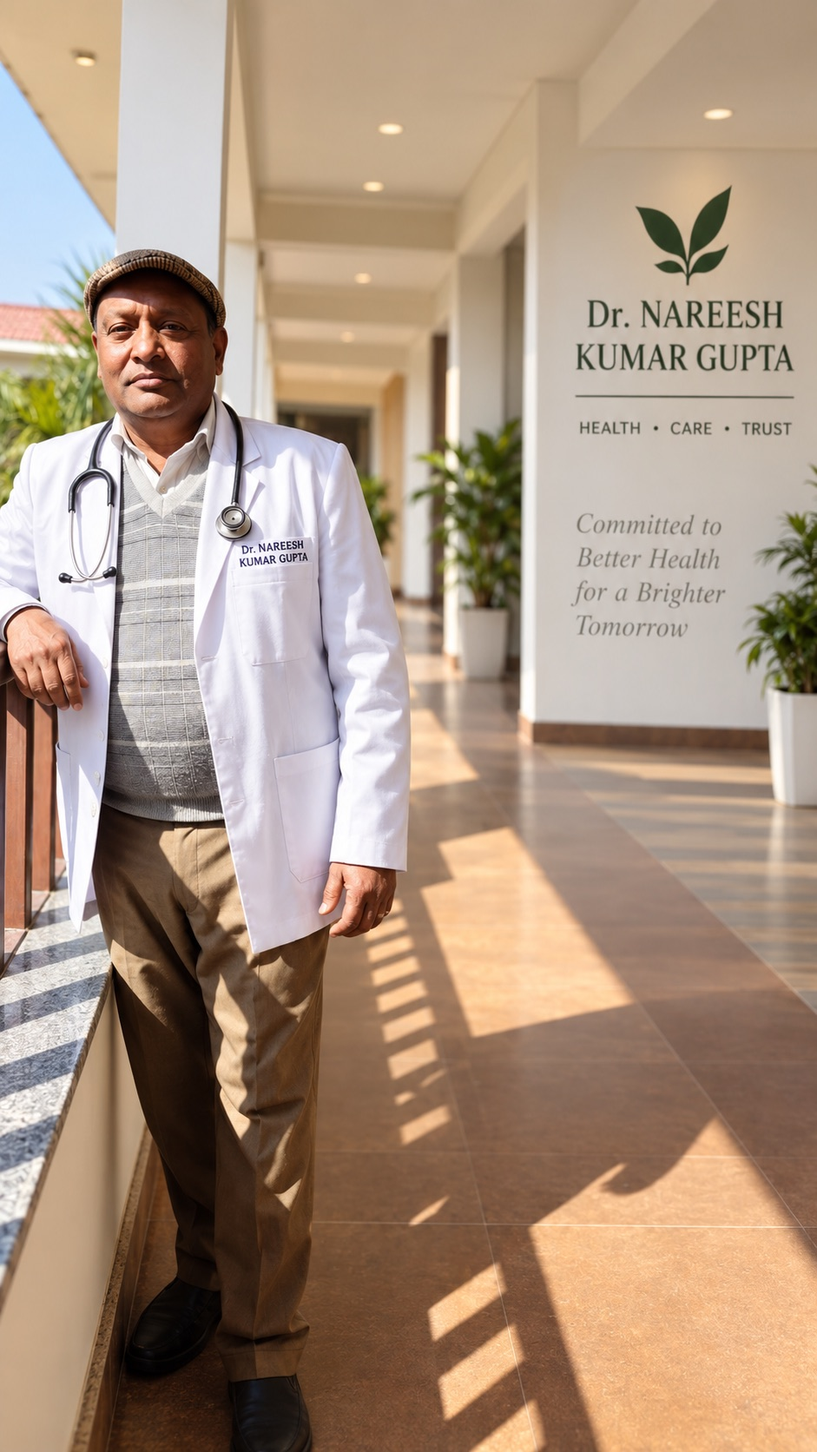
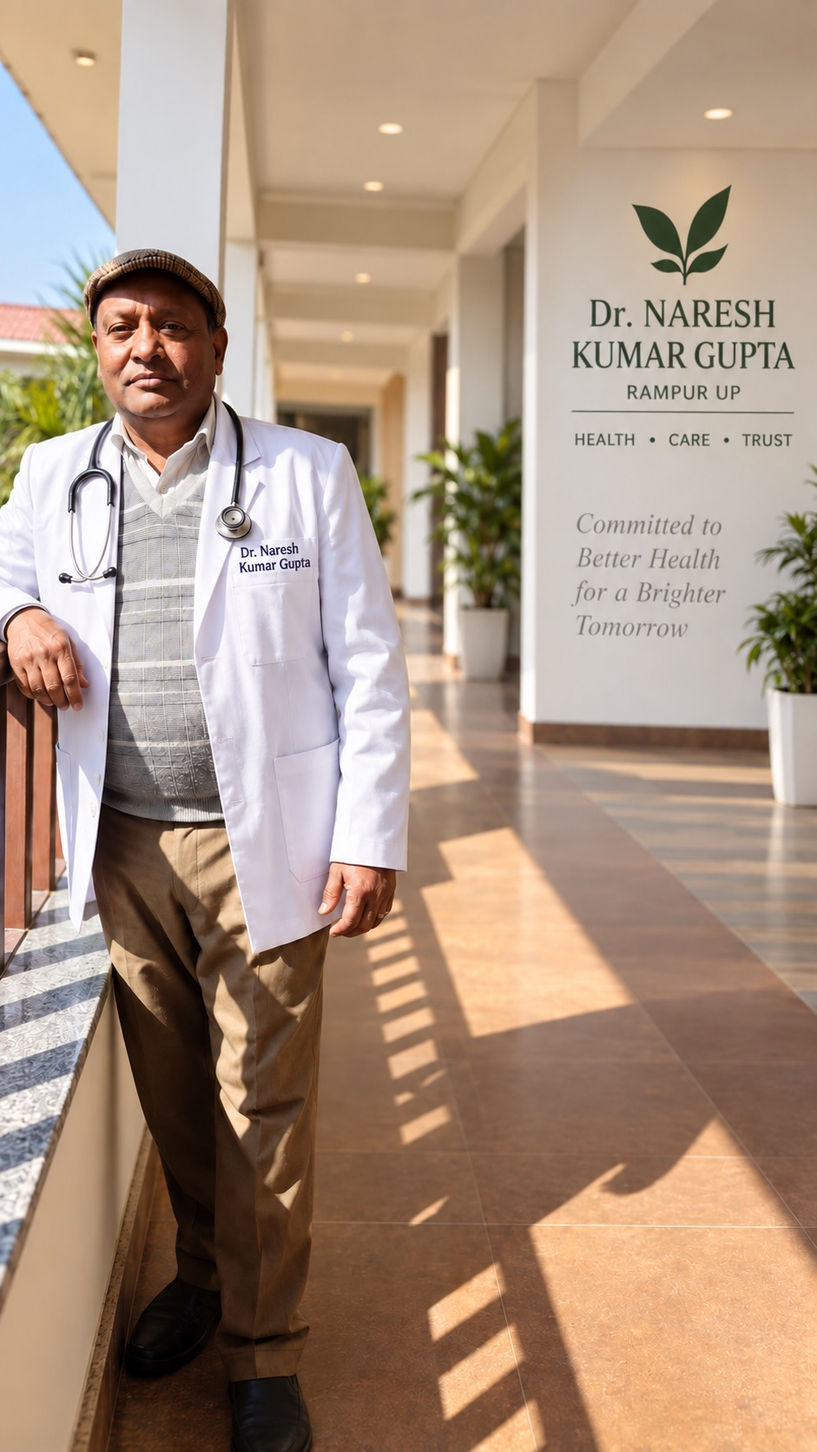
सभी डैश (—) चिह्न हटाकर उचित विराम-चिह्न लगाए, सही स्पेलिंग वाली फ़ोटो

diff --git a/app/homeopathy/page.js b/app/homeopathy/page.js
@@ -6,21 +6,21 @@ import organonTitle from '../../public/organon-title.jpg';
 import globulesPhoto from '../../public/homeo-flower.jpg';
 
 export const metadata = {
-  title: 'होम्योपैथी क्या है? — इतिहास, सिद्धांत और डॉ. सैमुअल हानेमान',
+  title: 'होम्योपैथी क्या है? इतिहास, सिद्धांत और डॉ. सैमुअल हानेमान',
   description:
-    'होम्योपैथी का संपूर्ण परिचय — डॉ. सैमुअल हानेमान का जीवन, उनके ग्रंथ (ऑर्गेनन ऑफ़ मेडिसिन, मटेरिया मेडिका प्यूरा, क्रॉनिक डिज़ीज़ेज़), होम्योपैथी के मूल सिद्धांत और भारत में इसकी मान्यता।',
+    'होम्योपैथी का संपूर्ण परिचय: डॉ. सैमुअल हानेमान का जीवन, उनके ग्रंथ (ऑर्गेनन ऑफ़ मेडिसिन, मटेरिया मेडिका प्यूरा, क्रॉनिक डिज़ीज़ेज़), होम्योपैथी के मूल सिद्धांत और भारत में इसकी मान्यता।',
 };
 
 const principles = [
   {
     icon: '⚖',
     title: 'समरूपता का सिद्धांत',
-    desc: '"Similia Similibus Curentur" — अर्थात जो पदार्थ स्वस्थ व्यक्ति में किसी रोग जैसे लक्षण उत्पन्न करता है, वही पदार्थ अत्यंत सूक्ष्म मात्रा में उन लक्षणों वाले रोगी को ठीक कर सकता है। यही होम्योपैथी की आधारशिला है।',
+    desc: '"Similia Similibus Curentur", अर्थात जो पदार्थ स्वस्थ व्यक्ति में किसी रोग जैसे लक्षण उत्पन्न करता है, वही पदार्थ अत्यंत सूक्ष्म मात्रा में उन लक्षणों वाले रोगी को ठीक कर सकता है। यही होम्योपैथी की आधारशिला है।',
   },
   {
     icon: '💧',
     title: 'न्यूनतम मात्रा',
-    desc: 'दवा उतनी ही दी जाती है जितनी रोग को ठीक करने के लिए आवश्यक हो — इससे दवा का कोई हानिकारक प्रभाव शरीर पर नहीं पड़ता।',
+    desc: 'दवा उतनी ही दी जाती है जितनी रोग को ठीक करने के लिए आवश्यक हो। इससे दवा का कोई हानिकारक प्रभाव शरीर पर नहीं पड़ता।',
   },
   {
     icon: '🔄',
@@ -30,7 +30,7 @@ const principles = [
   {
     icon: '🧍',
     title: 'संपूर्ण व्यक्ति की चिकित्सा',
-    desc: 'होम्योपैथी रोग का नहीं, रोगी का उपचार करती है — शरीर, मन और स्वभाव को एक साथ देखकर दवा चुनी जाती है। इसीलिए एक ही रोग में दो रोगियों को अलग-अलग दवा दी जा सकती है।',
+    desc: 'होम्योपैथी रोग का नहीं, रोगी का उपचार करती है। शरीर, मन और स्वभाव को एक साथ देखकर दवा चुनी जाती है। इसीलिए एक ही रोग में दो रोगियों को अलग-अलग दवा दी जा सकती है।',
   },
 ];
 
@@ -39,7 +39,7 @@ const books = [
     year: '1810',
     title: 'ऑर्गेनन ऑफ़ मेडिसिन',
     original: 'Organon der Heilkunst',
-    desc: 'होम्योपैथी का मूल ग्रंथ, जिसमें डॉ. हानेमान ने चिकित्सा के संपूर्ण सिद्धांत सूत्रबद्ध किए। उनके जीवनकाल और उसके बाद कुल छह संस्करण प्रकाशित हुए — आज भी विश्व भर के होम्योपैथिक कॉलेजों में यही ग्रंथ पढ़ाया जाता है।',
+    desc: 'होम्योपैथी का मूल ग्रंथ, जिसमें डॉ. हानेमान ने चिकित्सा के संपूर्ण सिद्धांत सूत्रबद्ध किए। उनके जीवनकाल और उसके बाद कुल छह संस्करण प्रकाशित हुए। आज भी विश्व भर के होम्योपैथिक कॉलेजों में यही ग्रंथ पढ़ाया जाता है।',
   },
   {
     year: '1811–1821',
@@ -51,13 +51,13 @@ const books = [
     year: '1828',
     title: 'द क्रॉनिक डिज़ीज़ेज़',
     original: 'Die chronischen Krankheiten',
-    desc: 'पुराने (जीर्ण) रोगों की गहराई पर लिखा ग्रंथ — क्यों कुछ रोग बार-बार लौटते हैं और उनकी जड़ (मायाज़्म) तक पहुँचकर स्थायी उपचार कैसे किया जाए, इसका सिद्धांत यहीं दिया गया।',
+    desc: 'पुराने (जीर्ण) रोगों की गहराई पर लिखा ग्रंथ। क्यों कुछ रोग बार-बार लौटते हैं और उनकी जड़ (मायाज़्म) तक पहुँचकर स्थायी उपचार कैसे किया जाए, इसका सिद्धांत यहीं दिया गया।',
   },
 ];
 
 const indiaFacts = [
-  'भारत में होम्योपैथी का आगमन 19वीं शताब्दी के आरंभ में हुआ — डॉ. जॉन मार्टिन होनिगबर्गर ने महाराजा रणजीत सिंह का उपचार होम्योपैथी से किया था।',
-  'आज भारत विश्व में होम्योपैथी का सबसे बड़ा केंद्र है — सैकड़ों होम्योपैथिक मेडिकल कॉलेज और लाखों पंजीकृत चिकित्सक।',
+  'भारत में होम्योपैथी का आगमन 19वीं शताब्दी के आरंभ में हुआ। डॉ. जॉन मार्टिन होनिगबर्गर ने महाराजा रणजीत सिंह का उपचार होम्योपैथी से किया था।',
+  'आज भारत विश्व में होम्योपैथी का सबसे बड़ा केंद्र है, जहाँ सैकड़ों होम्योपैथिक मेडिकल कॉलेज और लाखों पंजीकृत चिकित्सक हैं।',
   'भारत सरकार के आयुष मंत्रालय के अंतर्गत होम्योपैथी एक मान्यता प्राप्त चिकित्सा पद्धति है।',
   'राष्ट्रीय होम्योपैथी आयोग (NCH) शिक्षा और पंजीकरण का नियमन करता है, तथा केंद्रीय होम्योपैथी अनुसंधान परिषद (CCRH) शोध कार्य करती है।',
   'डॉ. हानेमान के जन्मदिवस 10 अप्रैल को प्रतिवर्ष विश्व होम्योपैथी दिवस मनाया जाता है।',
@@ -70,7 +70,7 @@ const myths = [
   },
   {
     myth: 'सभी सफ़ेद मीठी गोलियाँ एक जैसी होती हैं।',
-    fact: 'मीठी गोलियाँ केवल दवा पहुँचाने का माध्यम हैं — असली दवा उन पर डाली गई औषधि होती है, जो हज़ारों अलग-अलग स्रोतों से बनती है और हर रोगी के लिए अलग चुनी जाती है।',
+    fact: 'मीठी गोलियाँ केवल दवा पहुँचाने का माध्यम हैं। असली दवा उन पर डाली गई औषधि होती है, जो हज़ारों अलग-अलग स्रोतों से बनती है और हर रोगी के लिए अलग चुनी जाती है।',
   },
   {
     myth: 'होम्योपैथी में बहुत कठिन परहेज़ रखना पड़ता है।',
@@ -78,7 +78,7 @@ const myths = [
   },
   {
     myth: 'होम्योपैथिक दवा पहले रोग को बढ़ा देती है।',
-    fact: 'कुछ रोगियों में आरंभ में लक्षण थोड़े उभर सकते हैं, जिसे चिकित्सक की देखरेख में शुभ संकेत माना जाता है — यह अल्पकालिक होता है और हर रोगी में नहीं होता।',
+    fact: 'कुछ रोगियों में आरंभ में लक्षण थोड़े उभर सकते हैं, जिसे चिकित्सक की देखरेख में शुभ संकेत माना जाता है। यह अल्पकालिक होता है और हर रोगी में नहीं होता।',
   },
 ];
 
@@ -91,10 +91,10 @@ export default function HomeopathyPage() {
             <Link href="/">मुखपृष्ठ</Link> <span aria-hidden="true">›</span>{' '}
             होम्योपैथी
           </p>
-          <h1>होम्योपैथी — एक संपूर्ण परिचय</h1>
+          <h1>होम्योपैथी: एक संपूर्ण परिचय</h1>
           <p className="lead">
             दो सौ वर्षों से अधिक पुरानी, विश्व की प्रमुख सौम्य चिकित्सा
-            पद्धतियों में से एक — उसका इतिहास, सिद्धांत और भारत में स्थान।
+            पद्धतियों में से एक। उसका इतिहास, सिद्धांत और भारत में स्थान।
           </p>
         </div>
       </section>
@@ -113,7 +113,7 @@ export default function HomeopathyPage() {
           </p>
           <p>
             "होम्योपैथी" शब्द ग्रीक भाषा के <em>homoios</em> (समान) और{' '}
-            <em>pathos</em> (पीड़ा) से बना है — अर्थात "समान से समान की
+            <em>pathos</em> (पीड़ा) से बना है, अर्थात "समान से समान की
             चिकित्सा"।
           </p>
         </div>
@@ -128,14 +128,14 @@ export default function HomeopathyPage() {
               sizes="(min-width: 720px) 420px, 88vw"
             />
             <figcaption>
-              डॉ. सैमुअल हानेमान (1755–1843) — 1838 में पेरिस में बना तैलचित्र
+              डॉ. सैमुअल हानेमान (1755-1843), 1838 में पेरिस में बना तैलचित्र
             </figcaption>
           </figure>
           <div className="split-text">
-            <h2>संस्थापक — डॉ. सैमुअल हानेमान</h2>
+            <h2>संस्थापक: डॉ. सैमुअल हानेमान</h2>
             <p>
               डॉ. क्रिश्चियन फ्रेडरिक सैमुअल हानेमान का जन्म 10 अप्रैल 1755 को
-              जर्मनी के माइसन नगर में हुआ। वे असाधारण प्रतिभा के धनी थे — कई
+              जर्मनी के माइसन नगर में हुआ। वे असाधारण प्रतिभा के धनी थे: कई
               भाषाओं के ज्ञाता, रसायनशास्त्री और चिकित्सक। सन् 1779 में उन्होंने
               चिकित्सा की उपाधि प्राप्त की, परंतु उस युग की कठोर चिकित्सा
               विधियों (रक्त निकालना, विषैली औषधियाँ) से असंतुष्ट होकर उन्होंने
@@ -144,7 +144,7 @@ export default function HomeopathyPage() {
             <p>
               सन् 1790 में एक पुस्तक का अनुवाद करते समय उन्होंने सिनकोना
               (कुनैन) की छाल का स्वयं पर प्रयोग किया और पाया कि स्वस्थ शरीर में
-              वह मलेरिया जैसे लक्षण उत्पन्न करती है — यहीं से "समान से समान की
+              वह मलेरिया जैसे लक्षण उत्पन्न करती है। यहीं से "समान से समान की
               चिकित्सा" के सिद्धांत का जन्म हुआ। वर्षों के परीक्षणों के बाद सन्
               1810 में उन्होंने अपना प्रसिद्ध ग्रंथ <em>ऑर्गेनन</em> प्रकाशित
               किया और होम्योपैथी को एक व्यवस्थित चिकित्सा पद्धति का रूप दिया।
@@ -249,7 +249,7 @@ export default function HomeopathyPage() {
           <div>
             <h2>क्या होम्योपैथी आपके रोग में सहायक हो सकती है?</h2>
             <p>
-              {site.experienceYears} वर्षों के अनुभवी चिकित्सक से परामर्श लें —
+              {site.experienceYears} वर्षों के अनुभवी चिकित्सक से परामर्श लें।
               {' '}{site.address}
             </p>
           </div>

diff --git a/app/page.js b/app/page.js
@@ -10,7 +10,7 @@ const specialties = [
   {
     icon: '🦶',
     title: 'एड़ी एवं तलवे का दर्द',
-    desc: 'तलवे में सुई जैसी चुभन और तेज़ दर्द (प्लांटर फ़ेशिआइटिस / कैल्केनियल स्पर) — जिसमें सुबह ज़मीन पर पैर रखते ही असहनीय पीड़ा होती है, उसका सफल होम्योपैथिक उपचार।',
+    desc: 'तलवे में सुई जैसी चुभन और तेज़ दर्द (प्लांटर फ़ेशिआइटिस / कैल्केनियल स्पर), जिसमें सुबह ज़मीन पर पैर रखते ही असहनीय पीड़ा होती है, उसका सफल होम्योपैथिक उपचार।',
   },
   {
     icon: '🌿',
@@ -20,7 +20,7 @@ const specialties = [
   {
     icon: '👣',
     title: 'गोखरू / कॉर्न',
-    desc: 'पैर के तलवे में बनने वाली कठोर, फफोले जैसी गाँठ, जिससे चलने में दर्द होता है — उसका जड़ से होम्योपैथिक समाधान।',
+    desc: 'पैर के तलवे में बनने वाली कठोर, फफोले जैसी गाँठ, जिससे चलने में दर्द होता है, उसका जड़ से होम्योपैथिक समाधान।',
   },
   {
     icon: '🌡',
@@ -35,12 +35,12 @@ const specialties = [
   {
     icon: '🧠',
     title: 'मिर्गी के दौरे (Seizures)',
-    desc: 'मिर्गी के दौरों से पीड़ित रोगियों की दीर्घकालिक देखभाल का अनुभव — नियमित परामर्श एवं सतत होम्योपैथिक चिकित्सा के साथ।',
+    desc: 'मिर्गी के दौरों से पीड़ित रोगियों की दीर्घकालिक देखभाल का अनुभव, नियमित परामर्श एवं सतत होम्योपैथिक चिकित्सा के साथ।',
   },
   {
     icon: '🦴',
     title: 'सर्वाइकल (गर्दन का दर्द)',
-    desc: 'सर्वाइकल स्पॉन्डिलाइटिस — गर्दन की जकड़न, दर्द तथा हाथों में झनझनाहट का सौम्य होम्योपैथिक उपचार।',
+    desc: 'सर्वाइकल स्पॉन्डिलाइटिस से होने वाली गर्दन की जकड़न, दर्द तथा हाथों में झनझनाहट का सौम्य होम्योपैथिक उपचार।',
   },
   {
     icon: '💧',
@@ -54,13 +54,13 @@ const specialties = [
   },
   {
     icon: '🌼',
-    title: 'चर्म रोग — दाग, छाजन, खुजली',
+    title: 'चर्म रोग (दाग, छाजन, खुजली)',
     desc: 'त्वचा के दाग-धब्बे, छाजन (एक्ज़िमा), खाज-खुजली और बार-बार उभरने वाली त्वचा की शिकायतों का जड़ से होम्योपैथिक उपचार।',
   },
   {
     icon: '🤧',
     title: 'एलर्जी (Allergy)',
-    desc: 'धूल, धूप, मौसम या खान-पान से होने वाली एलर्जी — त्वचा पर चकत्ते, खुजली, बार-बार छींकें व ज़ुकाम का सौम्य उपचार।',
+    desc: 'धूल, धूप, मौसम या खान-पान से होने वाली एलर्जी में त्वचा पर चकत्ते, खुजली, बार-बार छींकें व ज़ुकाम का सौम्य उपचार।',
   },
   {
     icon: '🩺',
@@ -70,7 +70,7 @@ const specialties = [
   {
     icon: '🤝',
     title: 'परिवार की संपूर्ण चिकित्सा',
-    desc: 'बच्चों से लेकर बुज़ुर्गों तक — हर आयु के रोगियों के लिए सुरक्षित और सौम्य होम्योपैथिक परामर्श।',
+    desc: 'बच्चों से लेकर बुज़ुर्गों तक, हर आयु के रोगियों के लिए सुरक्षित और सौम्य होम्योपैथिक परामर्श।',
   },
 ];
 
@@ -78,7 +78,7 @@ const processSteps = [
   {
     num: '१',
     title: 'विस्तृत बातचीत',
-    desc: 'रोग के लक्षण, पुरानी बीमारियाँ, खान-पान और दिनचर्या — सब कुछ आराम से, विस्तार में सुना और समझा जाता है।',
+    desc: 'रोग के लक्षण, पुरानी बीमारियाँ, खान-पान और दिनचर्या, सब कुछ आराम से, विस्तार में सुना और समझा जाता है।',
   },
   {
     num: '२',
@@ -88,7 +88,7 @@ const processSteps = [
   {
     num: '३',
     title: 'व्यक्तिगत दवा का चयन',
-    desc: 'हर रोगी की प्रकृति के अनुसार दवा और उसकी शक्ति (पोटेंसी) का चुनाव किया जाता है — एक ही रोग में भी अलग-अलग रोगियों को अलग दवा।',
+    desc: 'हर रोगी की प्रकृति के अनुसार दवा और उसकी शक्ति (पोटेंसी) का चुनाव किया जाता है। एक ही रोग में भी अलग-अलग रोगियों को अलग दवा दी जा सकती है।',
   },
   {
     num: '४',
@@ -100,7 +100,7 @@ const processSteps = [
 const whyPoints = [
   {
     title: 'सौम्य एवं सुरक्षित',
-    desc: 'होम्योपैथिक दवाएँ मीठी गोलियों के रूप में दी जाती हैं — बच्चे और बुज़ुर्ग भी सहजता से ले सकते हैं।',
+    desc: 'होम्योपैथिक दवाएँ मीठी गोलियों के रूप में दी जाती हैं, इसलिए बच्चे और बुज़ुर्ग भी इन्हें सहजता से ले सकते हैं।',
   },
   {
     title: 'जड़ से उपचार का प्रयास',
@@ -115,13 +115,13 @@ const whyPoints = [
 const testimonials = [
   {
     name: 'श्री रमीस कुमार सिंह',
-    meta: 'सर्वाइकल (गर्दन का दर्द) — 10 वर्ष पुरानी समस्या',
-    text: 'पिछले दस वर्षों से गर्दन के दर्द से परेशान था — उठने-बैठने तक में कष्ट होता था। डॉक्टर साहब की दवा नियमित लेने से धीरे-धीरे पूरा आराम मिल गया। अब बिना किसी तकलीफ़ के अपना काम कर पाता हूँ।',
+    meta: 'सर्वाइकल (गर्दन का दर्द), 10 वर्ष पुरानी समस्या',
+    text: 'पिछले दस वर्षों से गर्दन के दर्द से परेशान था। उठने-बैठने तक में कष्ट होता था। डॉक्टर साहब की दवा नियमित लेने से धीरे-धीरे पूरा आराम मिल गया। अब बिना किसी तकलीफ़ के अपना काम कर पाता हूँ।',
   },
   {
     name: 'श्री अमित कुमार सिंह',
     place: 'रामपुर, उत्तर प्रदेश',
-    meta: 'चर्म रोग — 2 वर्ष पुरानी समस्या',
+    meta: 'चर्म रोग, 2 वर्ष पुरानी समस्या',
     text: 'दो साल से त्वचा के रोग से परेशान था। अंग्रेज़ी दवाएँ खाते-खाते थक गया, पर कोई लाभ नहीं हुआ। डॉक्टर साहब की होम्योपैथिक दवा से कुछ ही महीनों में त्वचा बिल्कुल साफ़ हो गई। मैं उनका हृदय से आभारी हूँ।',
   },
 ];
@@ -145,7 +145,7 @@ const faqs = [
   },
   {
     q: 'पहली मुलाक़ात में क्या होगा?',
-    a: 'पहली मुलाक़ात में डॉक्टर साहब आपकी पूरी बात — लक्षण, इतिहास, खान-पान और दिनचर्या — विस्तार से सुनते हैं, इसलिए थोड़ा समय लेकर आएँ। आपकी बताई हर बात पूरी तरह गोपनीय रखी जाती है।',
+    a: 'पहली मुलाक़ात में डॉक्टर साहब आपकी पूरी बात (लक्षण, इतिहास, खान-पान और दिनचर्या) विस्तार से सुनते हैं, इसलिए थोड़ा समय लेकर आएँ। आपकी बताई हर बात पूरी तरह गोपनीय रखी जाती है।',
   },
   {
     q: 'दूर रहने वाले रोगी क्या करें?',
@@ -164,7 +164,7 @@ export default function Home() {
                 पिछले {site.experienceYears} वर्षों से आपकी सेवा में
               </p>
               <h1>
-                अनुभव, विश्वास और सौम्य चिकित्सा —
+                अनुभव, विश्वास और सौम्य चिकित्सा
                 <br />
                 <span className="accent">{site.doctorName}</span>
               </h1>
@@ -230,7 +230,7 @@ export default function Home() {
               </p>
               <p>
                 उनकी पहचान किसी विज्ञापन से नहीं, बल्कि स्वस्थ हुए रोगियों के
-                विश्वास से बनी है — आज भी उनके पास आने वाले अधिकांश रोगी पुराने
+                विश्वास से बनी है। आज भी उनके पास आने वाले अधिकांश रोगी पुराने
                 रोगियों की सलाह पर ही आते हैं। यही उनकी चिकित्सा की सबसे बड़ी
                 पहचान है।
               </p>
@@ -259,7 +259,7 @@ export default function Home() {
               </p>
               <ul className="checklist">
                 <li>प्राकृतिक स्रोतों से बनी अत्यंत सौम्य दवाएँ</li>
-                <li>मीठी गोलियों के रूप में — बच्चे भी आसानी से लेते हैं</li>
+                <li>मीठी गोलियाँ, जिन्हें बच्चे भी आसानी से लेते हैं</li>
                 <li>भारत सरकार के आयुष मंत्रालय द्वारा मान्यता प्राप्त पद्धति</li>
                 <li>पुराने एवं बार-बार लौटने वाले रोगों में विशेष उपयोगी</li>
               </ul>
@@ -304,7 +304,7 @@ export default function Home() {
             <div>
               <h2>इनमें से कोई समस्या है?</h2>
               <p>
-                बिना झिझक संपर्क करें — {site.experienceYears} वर्षों का अनुभव
+                बिना झिझक संपर्क करें, {site.experienceYears} वर्षों का अनुभव
                 आपकी सेवा में है।
               </p>
             </div>
@@ -326,7 +326,7 @@ export default function Home() {
 
         <section className="section section-tint" id="process">
           <div className="container">
-            <h2>चिकित्सा-पद्धति — परामर्श कैसे होता है</h2>
+            <h2>चिकित्सा-पद्धति: परामर्श कैसे होता है</h2>
             <div className="process-grid">
               <ol className="process-steps">
                 {processSteps.map((p) => (
@@ -348,7 +348,7 @@ export default function Home() {
                   sizes="(min-width: 900px) 380px, 92vw"
                 />
                 <figcaption>
-                  होम्योपैथिक दवाएँ — मीठी गोलियों के रूप में
+                  होम्योपैथिक दवाएँ, मीठी गोलियों के रूप में
                 </figcaption>
               </figure>
             </div>
@@ -373,7 +373,7 @@ export default function Home() {
           <div className="container">
             <h2>रोगियों के अनुभव</h2>
             <p className="section-sub">
-              हमारी सबसे बड़ी पूँजी — स्वस्थ हुए रोगियों का विश्वास:
+              हमारी सबसे बड़ी पूँजी: स्वस्थ हुए रोगियों का विश्वास
             </p>
             <div className="testimonial-grid">
               {testimonials.map((t) => (

diff --git a/app/layout.js b/app/layout.js
@@ -16,7 +16,7 @@ const bodyFont = Mukta({
 });
 
 export const metadata = {
-  title: 'डॉ. नरेश कुमार गुप्ता — होम्योपैथिक चिकित्सक | आदर्श कॉलोनी, रामपुर',
+  title: 'डॉ. नरेश कुमार गुप्ता | होम्योपैथिक चिकित्सक | आदर्श कॉलोनी, रामपुर',
   description:
     '51 वर्षों के अनुभव के साथ होम्योपैथिक चिकित्सा। एड़ी व तलवे का दर्द, मस्से, गोखरू, बुखार तथा जटिल एवं पुरानी बीमारियों का सौम्य होम्योपैथिक उपचार।',
 };

diff --git a/lib/siteConfig.js b/lib/siteConfig.js
@@ -1,4 +1,4 @@
-// सभी संपर्क विवरण एक ही जगह — असली जानकारी मिलने पर सिर्फ़ यहीं बदलें।
+// सभी संपर्क विवरण एक ही जगह; असली जानकारी मिलने पर सिर्फ़ यहीं बदलें।
 export const site = {
   doctorName: 'डॉ. नरेश कुमार गुप्ता',
   clinicName: 'गुप्ता होम्योपैथिक क्लिनिक',

diff --git a/components/Footer.js b/components/Footer.js
@@ -14,7 +14,7 @@ export default function Footer() {
           <Link href="/#contact">संपर्क</Link>
         </nav>
         <p>
-          © {new Date().getFullYear()} {site.clinicName} — {site.address}
+          © {new Date().getFullYear()} {site.clinicName}, {site.address}
         </p>
         <p className="disclaimer">
           यह वेबसाइट केवल सामान्य जानकारी हेतु है। किसी भी रोग की चिकित्सा के लिए
